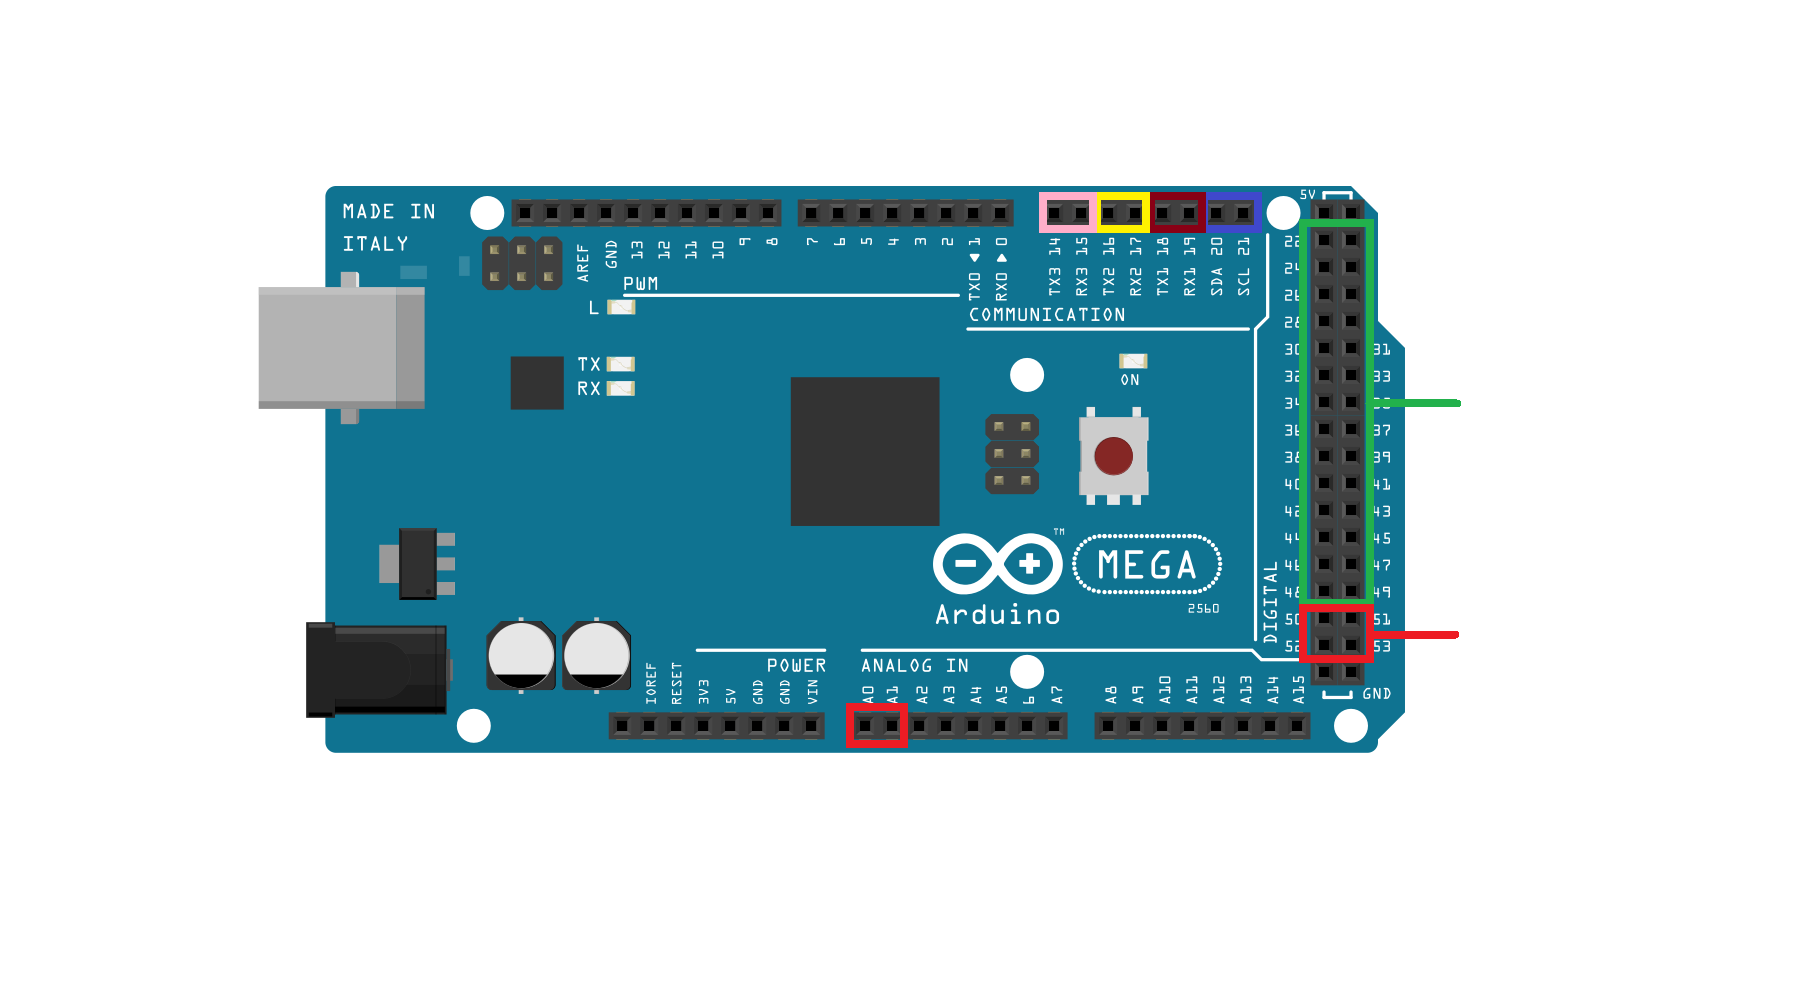
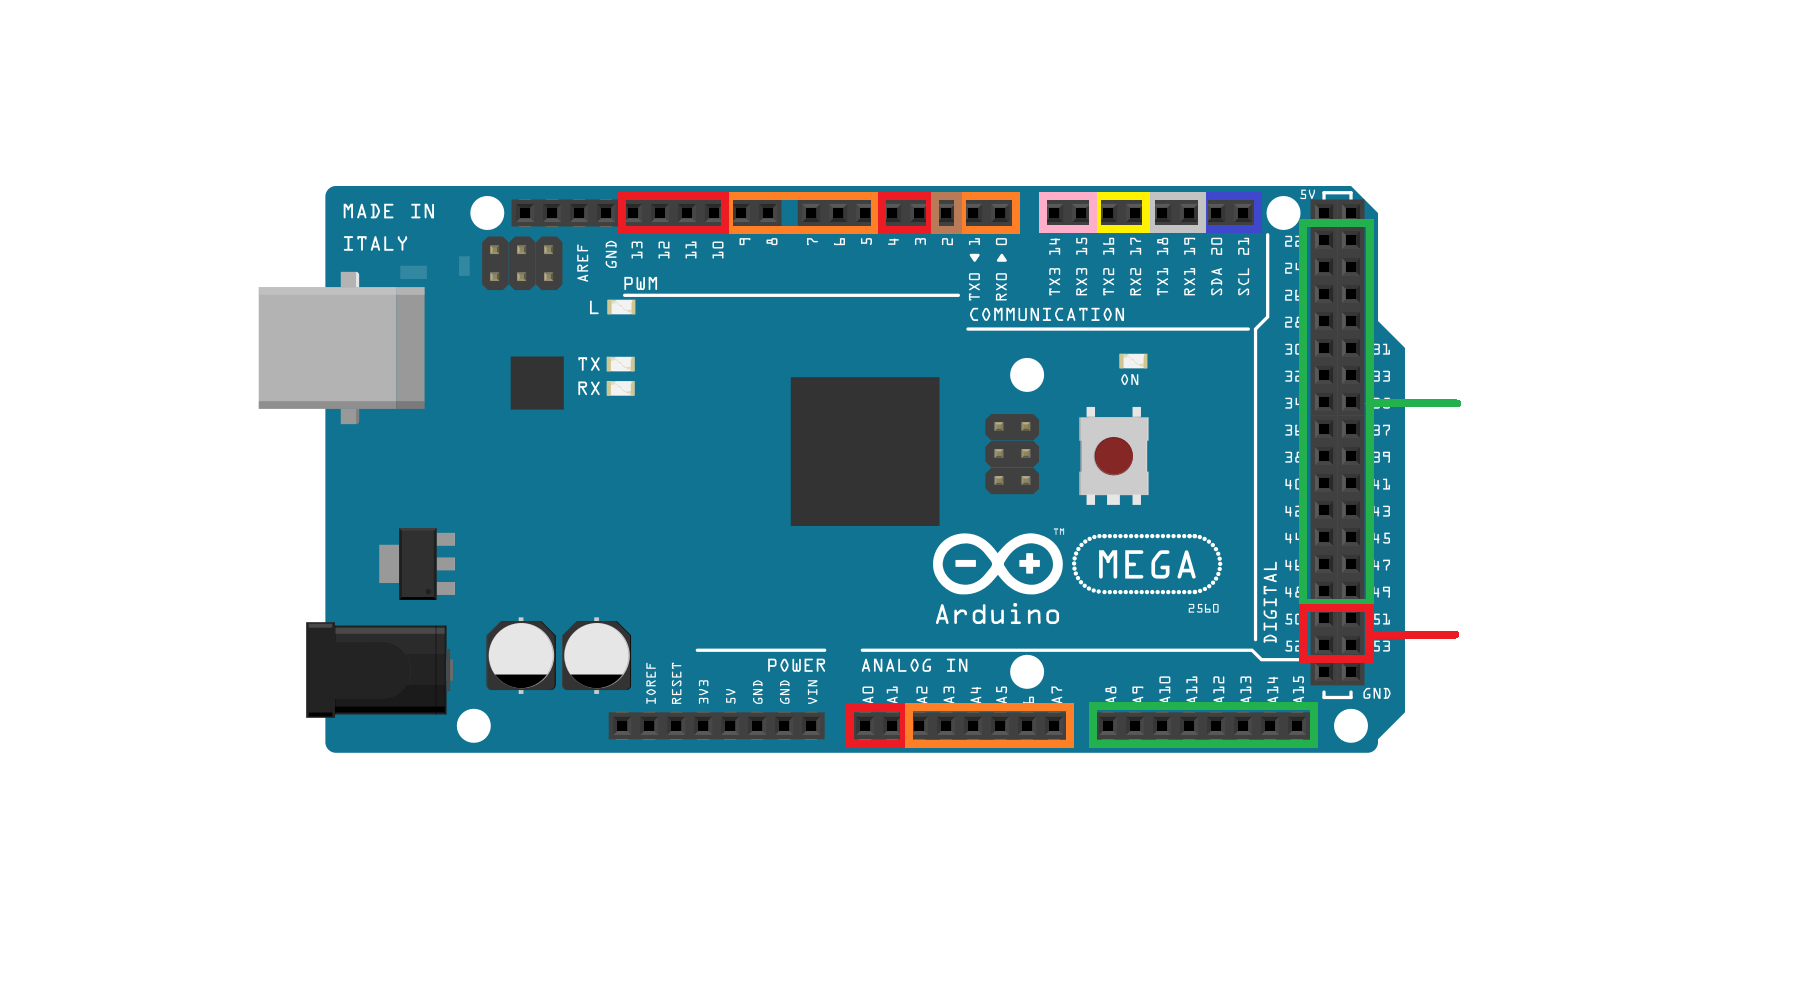
Working on diagram

Changed region(s): [[0.4978, 0.682, 0.7467, 0.775], [0.3422, 0.186, 0.5911, 0.248], [0.6222, 0.186, 0.6844, 0.248]]

diff --git a/docs/reference/hardware/pin-vpin-allocations.rst b/docs/reference/hardware/pin-vpin-allocations.rst
@@ -26,6 +26,16 @@ Mega2560
   :alt: Mega2560 Pin Recommendations
   :scale: 40%
 
+.. list-table:: Pins to avoid
+  :widths: auto
+  :header-rows: 1
+  :class: command-table
+
+  * - Pin(s)
+    - Description
+  * - 1
+    - A pin
+
 Uno
 ---
 
